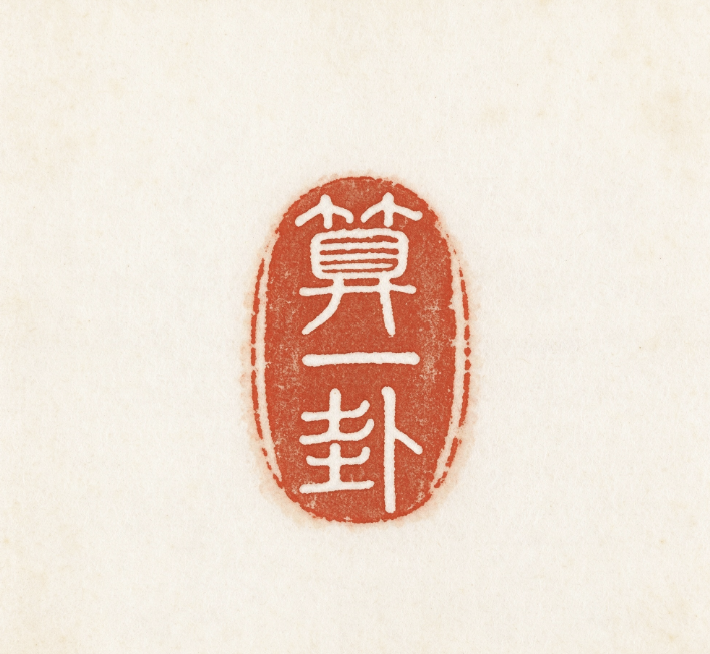
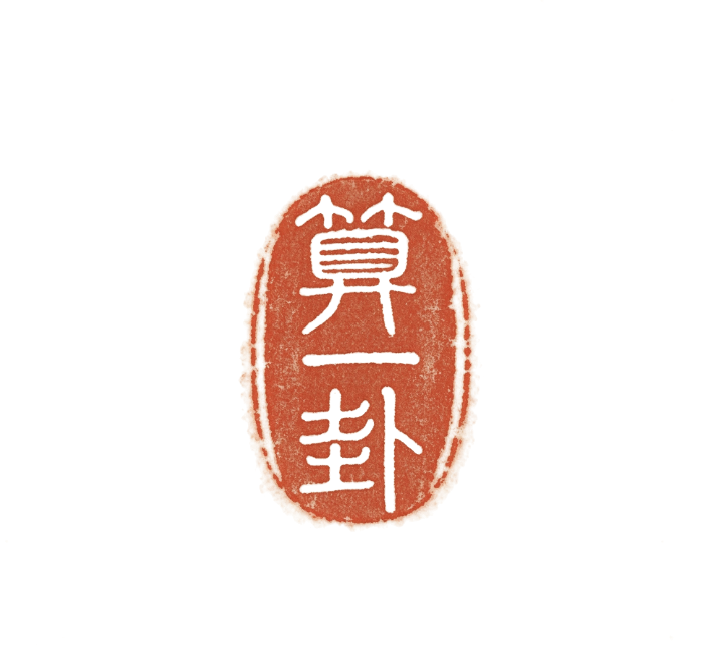
fix(another-life): 去底透明印章，消除矩形阴影
- 印章米色纸背景改为透明，保留红色印章原始像素；开头与结尾不再出现矩形混合阴影

diff --git a/docs/CHANGELOG.md b/docs/CHANGELOG.md
@@ -21,7 +21,8 @@
 - 阅读态展开时同步补足底部空间，避免正文在过渡中自动滚回顶部。
 - 阅读态遮罩改为从透明到深青的渐变，画面过渡更柔和。
 - 修复「显示全部」隐藏后命盘页重新居中造成的轻微位移。
-- 封面印章恢复为无损原图，启卷粒子改为更细的圆点并从印章边缘向内消散。
+- 封面印章改为去底透明版本，消除开头与结尾的矩形阴影。
+- 启卷粒子改为更细的圆点，并从印章边缘向内消散。
 - 提高烧字转场画布的分辨率，消除烧开的画面与文字突然变清晰的问题。
 - 修正桌面端烧字转场背景只显示上半截、进入故事页后突然换图的问题。
 - 修正低高度 PC 片尾「活」被视口裁掉的问题，终章文字按视口高度缩放。
